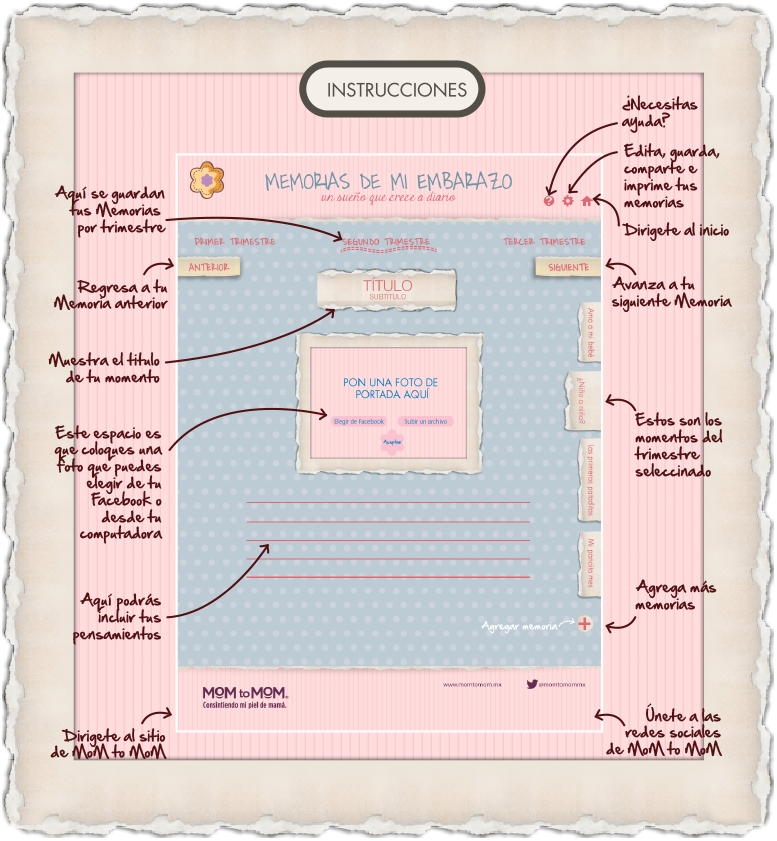
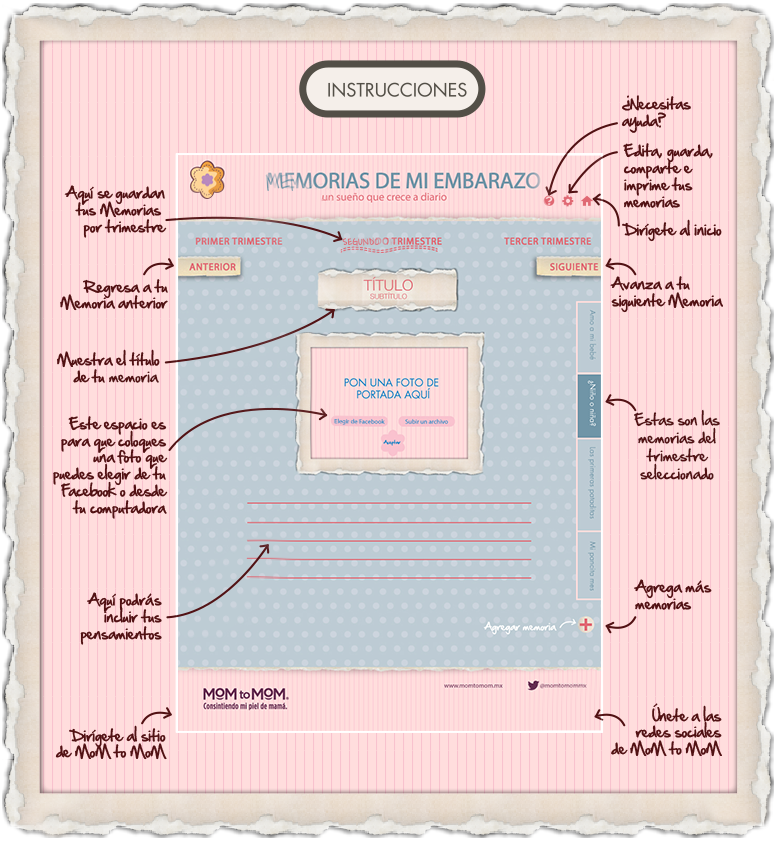
chingos de cambios

diff --git a/app/webroot/css/tema1.css b/app/webroot/css/tema1.css
@@ -548,12 +548,28 @@ ul.vertical_menu_1 li a{
 .add_moment{
   background-image: url(../img/bt_agregar.png);
   text-indent: -9999px;
-  width: 42px;
-  height: 42px;
+  width: 31px;
+  height: 31px;
   position: absolute;
   top: 992px;
   left: 758px;
   z-index: 9999;
+}
+
+.add_moment:before {
+  content: '';
+  display: none;
+  background-image: url(../img/agrega_memoria.png);
+  background-repeat: no-repeat;
+  width: 207px;
+  height: 31px;
+  position: absolute;
+  top: 0;
+  left: -210px;
+}
+
+.add_moment:hover:before {
+  display:block;
 }
 
 
@@ -630,6 +646,9 @@ form .input {
     width: 425px;
 }
 
+#FirstVisitPageAddForm .submit {
+  bottom: 400px;
+}
 #WhoamiPageName {
     width: 262px;
 }
@@ -1327,19 +1346,34 @@ text-align: center;
 #IlovemybabyPageAddForm .opcion {
     display: block;
     width: 230px;
-    height: 80px;
+    height: 140px;
     float: left;
     margin-bottom: 40px;
+    background-image: url(../img/caballo.png);
+    background-repeat: no-repeat;
+    background-position-x: center;
+  background-position-y: center;
+
 }
 
 #IlovemybabyPageAddForm .opcion input {
     margin-left: 110px;
+    margin-top: 100px;
 }
 
 #IlovemybabyPageAddForm .opcion label {
     width: 100%;
     text-align: center;
 }
+
+#IlovemybabyPageAddForm .opcion+.opcion {
+  background-image: url(../img/tambor.png);
+}
+
+#IlovemybabyPageAddForm .opcion+.opcion+.opcion {
+  background-image: url(../img/mar.png);
+}
+
 
 #senti {
   width: 450px;
@@ -2144,7 +2178,7 @@ text-align: center;
 /* NewfamilyPageAddForm  */
 
 #NewfamilyPageAddForm {
-    background: url(../img/newfam.png) center 180px no-repeat;
+    background: url(../img/newfam.png) center 0 no-repeat;
 }
 
 #NewfamilyPageAddForm .photo-up {
@@ -2178,6 +2212,8 @@ text-align: center;
 
 #MomentPageAddForm input[type="text"] {
   color: #fff;
+  font-family: 'futura-pt', helvetica, arial, sans-serif !important;
+  text-transform: uppercase;
 }
 
 #MomentPageAddForm .page_title {

diff --git a/app/webroot/css/tema2.css b/app/webroot/css/tema2.css
@@ -130,6 +130,21 @@ form .submit input[type="submit"]{
   left: 70px;
 }
 
+.add_moment:before {
+  background-image: url(../img/tema2/agrega_memoria.png);
+}
+
+#IlovemybabyPageAddForm .opcion {
+  background-image: url(../img/tema2/caballo.png);
+}
+#IlovemybabyPageAddForm .opcion+.opcion {
+  background-image: url(../img/tema2/tambor.png);
+}
+
+#IlovemybabyPageAddForm .opcion+.opcion+.opcion {
+  background-image: url(../img/tema2/mar.png);
+}
+
 /* COLORS */
 
 #last_input,
@@ -148,15 +163,35 @@ p.middle_note,
 }
 
 ul.vertical_menu_1 li{
-  background: #007ec4;
-  border-right: 1px solid #e06873;
-  border-bottom: 1px solid #e06873;
-
+  background: #bdccd4;
+  border-right: 1px solid #FDD;
+  border-bottom: 1px solid #FDD;
 }
 
 ul.vertical_menu_1 li a {
-  color: #fff; //ROSA
+  color: #7095a7;
 }
+
+ul.vertical_menu_1 li.selected,
+ul.vertical_menu_1 li:hover {
+  border-right: 1px solid #FDD;
+  border-bottom: 1px solid #FDD;
+  background: #7095a7;
+}
+
+
+ul.vertical_menu_1 li:first-child,
+ul.vertical_menu_1 li.selected:first-child,
+ul.vertical_menu_1 li:hover:first-child {
+  border-left: 1px solid #fdd;
+}
+
+
+ul.vertical_menu_1 li.selected a,
+ul.vertical_menu_1 li:hover a {
+  color: #fff;
+}
+
 
 input[type="text"] {
   border-bottom: 1px solid #808080;

diff --git a/app/webroot/css/tema3.css b/app/webroot/css/tema3.css
@@ -4,7 +4,8 @@ body {
 }
 
 input[type="text"], input[type="number"], textarea {
-  color: #877799;
+  color: #877799 !important;
+  border-color: #877799 !important;
 }
 
 
@@ -66,7 +67,7 @@ input[type="text"], input[type="number"], textarea {
 }
 
 p.whatdo{
-  background-image: url(../img/que-quieres-hacer.png); // FALTA?
+  background-image: url(../img/tema3/que-quieres-hacer.png); // FALTA?
 }
 
 .write_bt {
@@ -128,6 +129,22 @@ form .submit input[type="submit"]{
   background: url(../img/tema3/bebesotes.png);
 }
 
+.add_moment:before {
+  background-image: url(../img/tema3/agrega_memoria.png);
+}
+
+#IlovemybabyPageAddForm .opcion {
+  background-image: url(../img/tema3/caballo.png);
+}
+#IlovemybabyPageAddForm .opcion+.opcion {
+  background-image: url(../img/tema3/tambor.png);
+}
+
+#IlovemybabyPageAddForm .opcion+.opcion+.opcion {
+  background-image: url(../img/tema3/mar.png);
+}
+
+
 /* COLORS */
 
 #last_input,
@@ -184,13 +201,18 @@ ul.vertical_menu_1 li.:hover a {
   border-top: 1px dashed rgba(135, 119, 153, 0.47);
 }
 
+#MomentPageAddForm .title_page p {
+  color
+}
+
 /* CUSTOM */
 
 .menu {
   top: 105px;
 }
 
-.title_page p {
+.title_page p,
+#MomentPageAddForm .title_page p {
   margin-top: -15px;
 }
 

diff --git a/app/webroot/css/cake.generic.css b/app/webroot/css/cake.generic.css
@@ -108,7 +108,7 @@
   width: 750px;
   height: 810px;
   background-image: url(../img/nube4.png),url(../img/nube5.png), url(../img/nube4.png);
-  background-position: left bottom, 0px 6px, 0px -31px;
+  background-position: left 500px, 0px 6px, 0px -31px;
   background-repeat: no-repeat;
   padding: 0 35px;
 }
@@ -156,6 +156,7 @@
   text-align: center;
   font-family: 'Open Sans', sans-serif;
   font-size: 17px;
+  color: #007EC4;
 }
 
 #seleccionar_tema{
@@ -402,12 +403,12 @@ left: 11px;
 
 .ul_settings{
 position: fixed;
-top: 224px;
+top: 235px;
 color: #aeaeae;
 font-size: 20px;
 line-height: 45px;
 list-style: none;
-left: 395px;
+left: 439px;
 }
 
 #personalizar_popup{

diff --git a/app/webroot/css/tema4.css b/app/webroot/css/tema4.css
@@ -138,6 +138,24 @@ form .submit input[type="submit"]{
   width: 661px;
   height: 363px;
 }
+
+.add_moment:before {
+  background-image: url(../img/tema4/agrega_memoria.png);
+}
+
+#IlovemybabyPageAddForm .opcion {
+  background-image: url(../img/tema4/caballo.png);
+}
+#IlovemybabyPageAddForm .opcion+.opcion {
+  background-image: url(../img/tema4/tambor.png);
+}
+
+#IlovemybabyPageAddForm .opcion+.opcion+.opcion {
+  background-image: url(../img/tema4/mar.png);
+}
+
+
+
 /* COLORS */
 
 #last_input,
@@ -222,6 +240,10 @@ ul.vertical_menu_1 li.:hover a {
 
 .add_moment {
   top: 962px;
+}
+
+.menu {
+  top: 125px;
 }
 
 .menu_trims .current,
